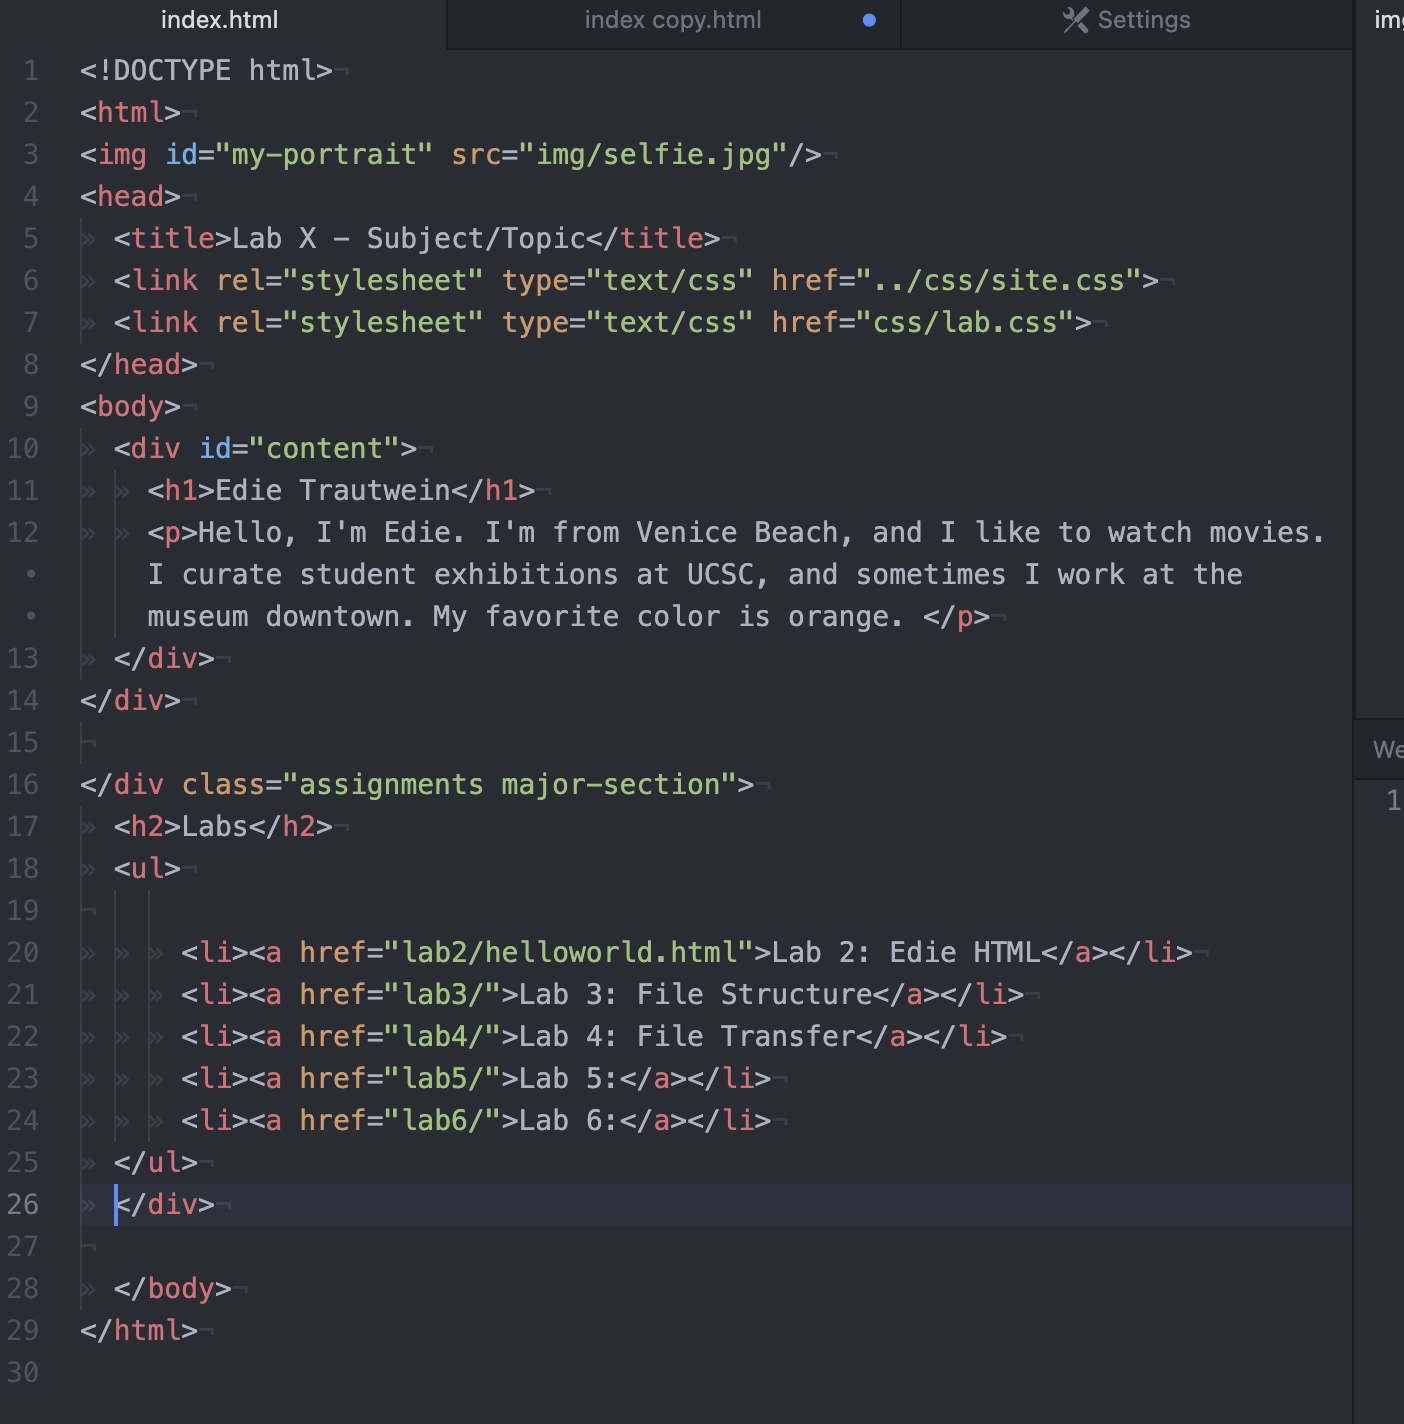
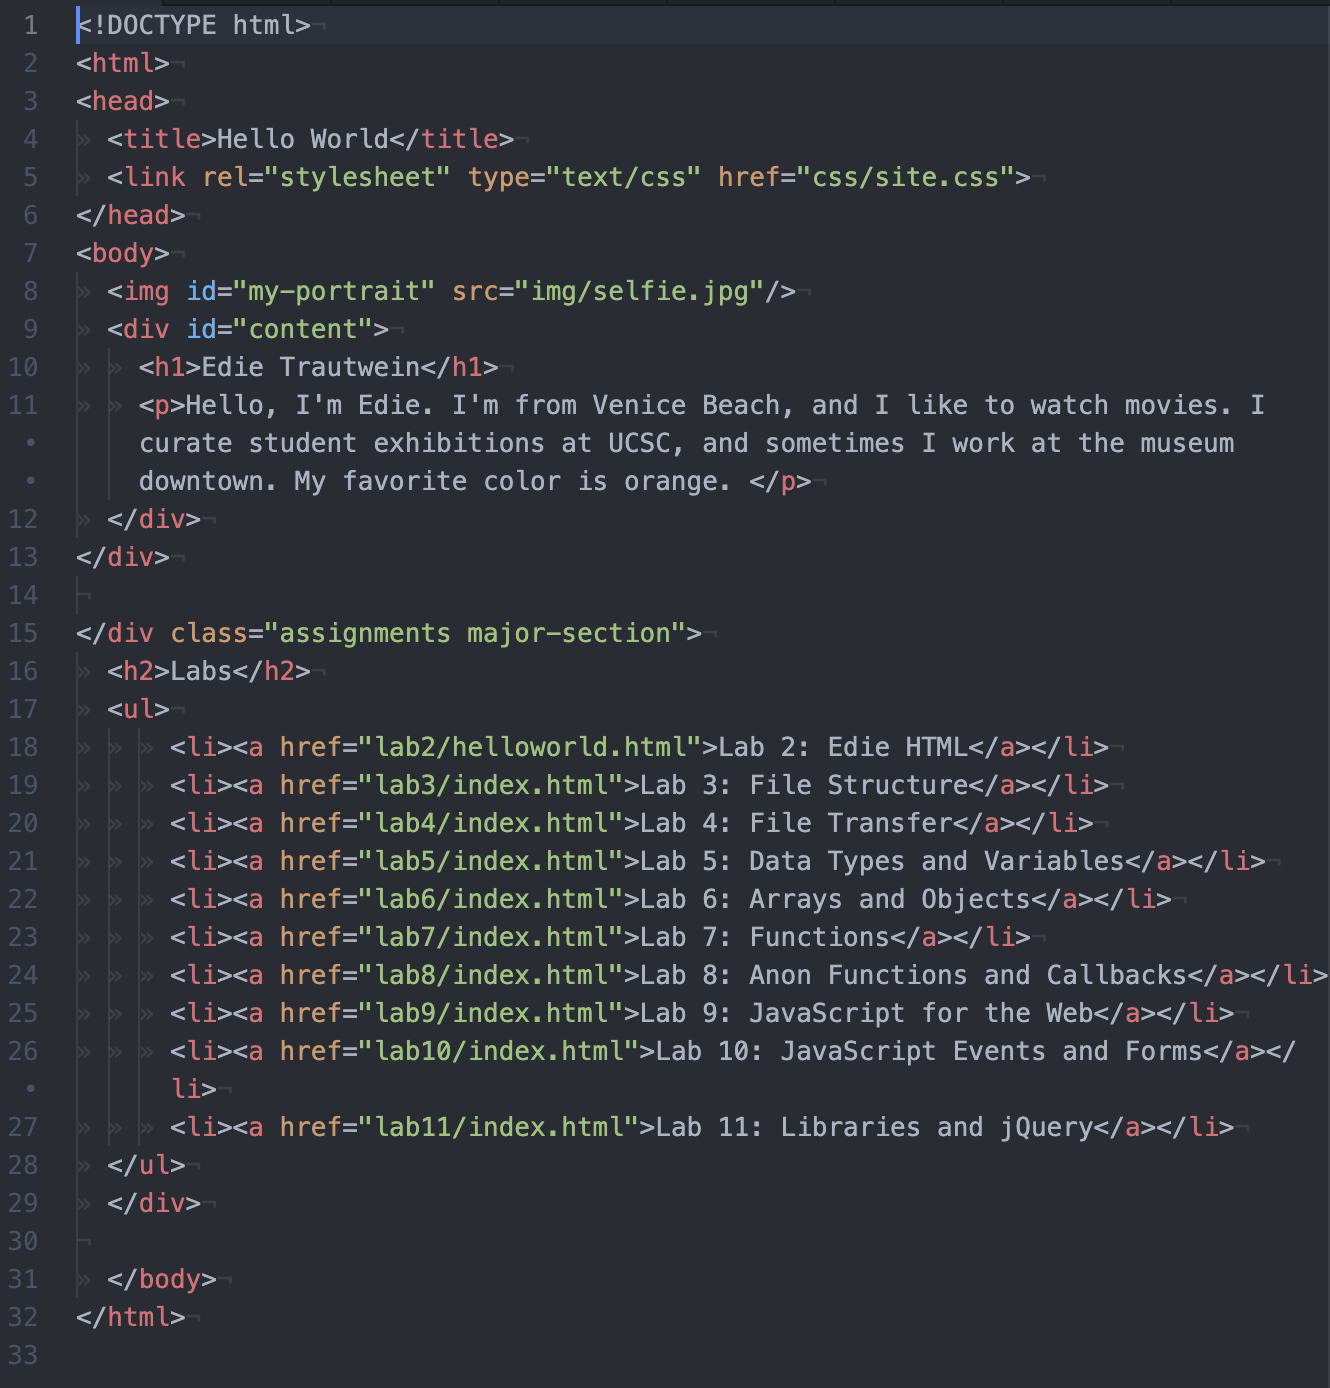
Re-do

diff --git a/lab4/index.html b/lab4/index.html
@@ -2,39 +2,46 @@
 <html>
 <head>
 	<title>Lab 4 - Pseudocoding/Problem Solving</title>
-	<link rel="stylesheet" type="text/css" href="lab.css">
-	<link rel="stylesheet" type="text/css" href="art101/lab4/css">
-</head>
+	<link rel="stylesheet" type="text/css" href="../css/site.css">
 <body>
 <h1> Lab 4 </h1>
 <h2> Making Strawberry Rhubarb Pie: </h2>
 <div class="Task 1">
-	<p>
-		1. Gather Ingredients
-		2. Crust Preparation
-			2.1. Blend flour, sugar, shortening, butter and salt in pastry blender/
-			2.2. Mix egg, vinegar and water/
-			2.3. Mix wet ingredients into dry ingredients/
-			2.4. Toss dough with flour, and chill/
-			2.5. Divide dough in two discs and place one in the pie dish/
-		3. Preheat oven to 425 degrees F
-		4. Filling Preparation
-			4.1. Mix rhubard, strawberries, tapioca, flour, lemon zest, lemon juice, cinnamon and vanilla/
-			4.2. Pour mixture into chilled crust/
-			4.3. Dot butter on the top of the pie/
-			4.4. Brush edges with egg whites/
-			4.5. Roll out second dough and place over filling/
-			4.6. Crimp the edges/
-			4.7. Brush with egg whites and granulated sugar/
-			4.8. Put foil around the collar of the pie/
-		5. Bake
-			5.1. Bake at 425F for 15 minutes/
-			5.2. Decrease temperature to 375F/
-			5.3. Bake for 45-50 minutes/
-			5.4. Take pie out of the oven/
-		6. Let the pie cool before serving.
-	</p>
-	<img id="file-structure" src="art101/lab4/img/dice.jpg"width=650 />
+	<ol>
+		<li>Gather Ingredients</li>
+		<li>Crust Preparation
+			<ol style="list-style-type:lower-alpha;">
+				<li>Blend flour, sugar, shortening, butter and salt in pastry blender/</li>
+				<li>Mix egg, vinegar and water/</li>
+				<li>Mix wet ingredients into dry ingredients/</li>
+				<li>Toss dough with flour, and chill/</li>
+				<li>Divide dough in two discs and place one in the pie dish/</li>
+			</ol>
+		</li>
+		<li>Preheat oven to 425 degrees F</li>
+		<li>Filling Preparation
+			<ol style="list-style-type:lower-alpha;">
+				<li>Mix rhubard, strawberries, tapioca, flour, lemon zest, lemon juice, cinnamon and vanilla/</li>
+				<li>Pour mixture into chilled crust/</li>
+				<li>Dot butter on the top of the pie/</li>
+				<li>Brush edges with egg whites/</li>
+				<li>Roll out second dough and place over filling/</li>
+				<li>Crimp the edges/</li>
+				<li>Brush with egg whites and granulated sugar/</li>
+				<li>Put foil around the collar of the pie/</li>
+			</ol>
+		</li>
+		<li>Bake
+			<ol style="list-style-type:lower-alpha;">
+				<li>Bake at 425F for 15 minutes/</li>
+				<li>Decrease temperature to 375F/</li>
+				<li>Bake for 45-50 minutes/</li>
+				<li>Take pie out of the oven/</li>
+			</ol>
+		</li>
+		<li>Let the pie cool before serving.</li>
+	</ol>
+	<img id="file-structure" src="img/pie.jpg" width="400" />
 </div>
 
 <h2> Rolling Dice: </h2>
@@ -46,7 +53,7 @@
 		<li><a> 3. Generate number (1,2,3,4,5,6)</a></li>
 		<li><a> 4. Print number"</a></li>
 	</ul>
-	<img id="file-structure" src="art101/lab4/img/dice.jpg"width=650 />
+	<img id="file-structure" src="img/dice.jpg" width="400" />
 </div>
 
 <h2> Pseudocode </h2>

diff --git a/index.html b/index.html
@@ -1,12 +1,11 @@
 <!DOCTYPE html>
 <html>
-<img id="my-portrait" src="img/selfie.jpeg"/>
 <head>
 	<title>Hello World</title>
-	<link rel="stylesheet" type="text/css" href="../css/site.css">
-	<link rel="stylesheet" type="text/css" href="css/lab.css">
+	<link rel="stylesheet" type="text/css" href="css/site.css">
 </head>
 <body>
+	<img id="my-portrait" src="img/selfie.jpg"/>
 	<div id="content">
 		<h1>Edie Trautwein</h1>
 		<p>Hello, I'm Edie. I'm from Venice Beach, and I like to watch movies. I curate student exhibitions at UCSC, and sometimes I work at the museum downtown. My favorite color is orange. </p>
@@ -17,15 +16,15 @@
 	<h2>Labs</h2>
 	<ul>
 			<li><a href="lab2/helloworld.html">Lab 2: Edie HTML</a></li>
-			<li><a href="lab3/">Lab 3: File Structure</a></li>
-			<li><a href="lab4/">Lab 4: File Transfer</a></li>
-			<li><a href="lab5/">Lab 5: Data Types and Variables</a></li>
-			<li><a href="lab6/">Lab 6: Arrays and Objects</a></li>
-			<li><a href="lab7/">Lab 7: Functions</a></li>
-			<li><a href="lab8/">Lab 8: Anon Functions and Callbacks</a></li>
-			<li><a href="lab9/">Lab 9: JavaScript for the Web</a></li>
-			<li><a href="lab10/">Lab 10: JavaScript Events and Forms</a></li>
-			<li><a href="lab11/">Lab 11: Libraries and jQuery</a></li>
+			<li><a href="lab3/index.html">Lab 3: File Structure</a></li>
+			<li><a href="lab4/index.html">Lab 4: File Transfer</a></li>
+			<li><a href="lab5/index.html">Lab 5: Data Types and Variables</a></li>
+			<li><a href="lab6/index.html">Lab 6: Arrays and Objects</a></li>
+			<li><a href="lab7/index.html">Lab 7: Functions</a></li>
+			<li><a href="lab8/index.html">Lab 8: Anon Functions and Callbacks</a></li>
+			<li><a href="lab9/index.html">Lab 9: JavaScript for the Web</a></li>
+			<li><a href="lab10/index.html">Lab 10: JavaScript Events and Forms</a></li>
+			<li><a href="lab11/index.html">Lab 11: Libraries and jQuery</a></li>
 	</ul>
 	</div>
 

diff --git a/lab5/index.html b/lab5/index.html
@@ -6,8 +6,8 @@
 </head>
 <body>
 	<div id="content">
-		<img src="images/prius.jpg">
-		<h1>Lab 5: Data Types and Variables</h>
+		<img src="img/prius.jpg">
+		<h1>Lab 5: Data Types and Variables</h1>
 			<p>Experimenting with JavaScript, variables and data types with my partners Kayla and Amelia.</p>
 		<h2>Challenges</h2>
 			<p>I messed up the make of the car. The make is Toyota and the model is Prius. I have had a challenge linking to both css and js...</p>
@@ -16,7 +16,7 @@
 		</div>
 		<div>
 			<h2>Script Output</h2>
-			<script src="art/lab5/js/lab5.js"></script>
+			<script src="js/lab.js"></script>
 		</div>
 	</div>
 </body>

diff --git a/lab6/index.html b/lab6/index.html
@@ -7,8 +7,8 @@
 </head>
 <body>
 	<div id="content">
-		<img src="img/bus.jpg">
-		<h1>Lab 6: Arrays and Objects</6>
+		<img src="img/bus.jpg" width="400">
+		<h1>Lab 6: Arrays and Objects</h1>
 			<p> For this lab I worked with Amelia and Kayla on defining objects and arrays in JavaScript.</p>
 		<h2>Challenges</h2>
 		 	<p> We worked on getting the JavaScript console on Chrome and then defining our variables. </p>

diff --git a/lab3/index.html b/lab3/index.html
@@ -2,7 +2,7 @@
 <html>
 <head>
 	<title>Lab 3 File Structures</title>
-	<link rel="stylesheet" type="text/css" href="lab/css/site.css">
+	<link rel="stylesheet" type="text/css" href="../css/site.css">
 	<link rel="stylesheet" type="text/css" href="css/lab.css">
 </head>
 <body>

diff --git a/lab2/helloworld.html b/lab2/helloworld.html
@@ -2,7 +2,7 @@
 <html>
 <head>
 	<title>Lab 2 - First HTML</title>
-	<link rel="stylesheet" type="text/css" href="lab/css/site.css">
+	<link rel="stylesheet" type="text/css" href="../css/site.css">
 	<link rel="stylesheet" type="text/css" href="css/lab.css">
 </head>
 <body>

diff --git a/lab7/index.html b/lab7/index.html
@@ -2,7 +2,7 @@
 <html>
 <head>
 	<title>Lab 7 - Functions</title>
-	<link rel="stylesheet" type="text/css" href="lab7/css/site.css">
+	<link rel="stylesheet" type="text/css" href="../css/site.css">
 	<link rel="stylesheet" type="text/css" href="css/lab.css">
 </head>
 <body>

diff --git a/lab2/css/lab.css b/lab2/css/lab.css
@@ -1,5 +1,8 @@
+body  {
+  background-color: pink;
+}
 h1 {
-  color: pink;
+  color: #DB0021;
   font-size: 200%;
 }
 
@@ -11,7 +14,7 @@ p {
 
 #content {
   background-color: #DFFD27;
-  width: 500px;
+  width: 50%;
   min-height: 300px;
   padding: 10px;
   margin: 10px;

diff --git a/lab11/index.html b/lab11/index.html
@@ -2,6 +2,7 @@
 <html>
 <head>
 	<title>Lab 11 - Libraries and jQuery </title>
+	<link rel="stylesheet" type="text/css" href="../css/site.css">
  	<script src="js/lab.js" defer></script>
 	<script src="https://code.jquery.com/jquery-3.4.1.min.js"></script>
 </head>

diff --git a/lab8/index.html b/lab8/index.html
@@ -2,7 +2,7 @@
 <html>
 <head>
 	<title>Lab 8 - Anon Functions and Callbacks</title>
-	<link rel="stylesheet" type="text/css" href="css/lab.css">
+	<link rel="stylesheet" type="text/css" href="../css/site.css">
 	<script src="js/lab.js"></script>
 </head>
 <body>

diff --git a/lab9/index.html b/lab9/index.html
@@ -2,7 +2,7 @@
 <html>
 <head>
 	<title>Lab 9 - JavaScript for the Web</title>
-	<link rel="stylesheet" type="text/css" href="css/lab.css">
+	<link rel="stylesheet" type="text/css" href="../css/site.css">
 	<script src="js/lab.js" defer></script>
 </head>
 <body>

diff --git a/css/site.css b/css/site.css
@@ -1,0 +1,9 @@
+body  {
+  background-color: #a2b18e;
+  font-family: tahoma, sans-serif;
+}
+
+#my-portrait  {
+  width:500px;
+  height: auto;
+}
